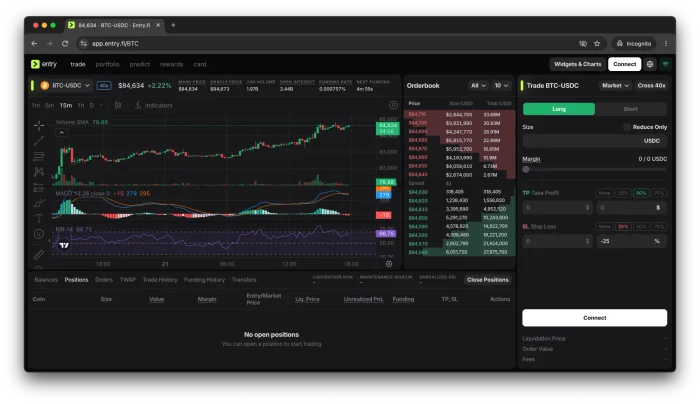
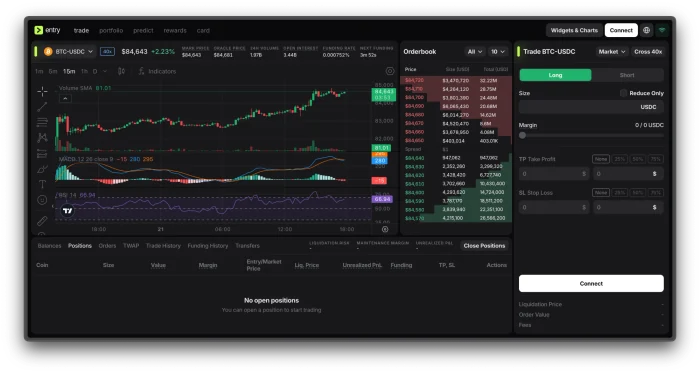
Brighty card: production screenshot without the browser bar

diff --git a/index.html b/index.html
@@ -66,7 +66,7 @@
         <a class="case-card" href="work/brighty.html">
           <div class="case-thumb">
             <div class="case-thumb-single">
-              <img src="work/images/brighty/terminal-1536.webp" srcset="work/images/brighty/terminal-700.webp 700w, work/images/brighty/terminal-1536.webp 1536w" sizes="(max-width: 768px) 90vw, 768px" width="1536" height="887" alt="The trading terminal in production at app.entry.fi: BTC-USDC chart with MACD and RSI, order book, order form with cross leverage and take-profit and stop-loss presets, and the positions table" loading="lazy" decoding="async">
+              <img src="work/images/brighty/terminal-1536.webp" srcset="work/images/brighty/terminal-700.webp 700w, work/images/brighty/terminal-1536.webp 1536w" sizes="(max-width: 768px) 90vw, 768px" width="1536" height="819" alt="The trading terminal in production: BTC-USDC chart with MACD and RSI, order book, order form with cross leverage and take-profit and stop-loss presets, and the positions table" loading="lazy" decoding="async">
             </div>
           </div>
           <div class="case-meta">
